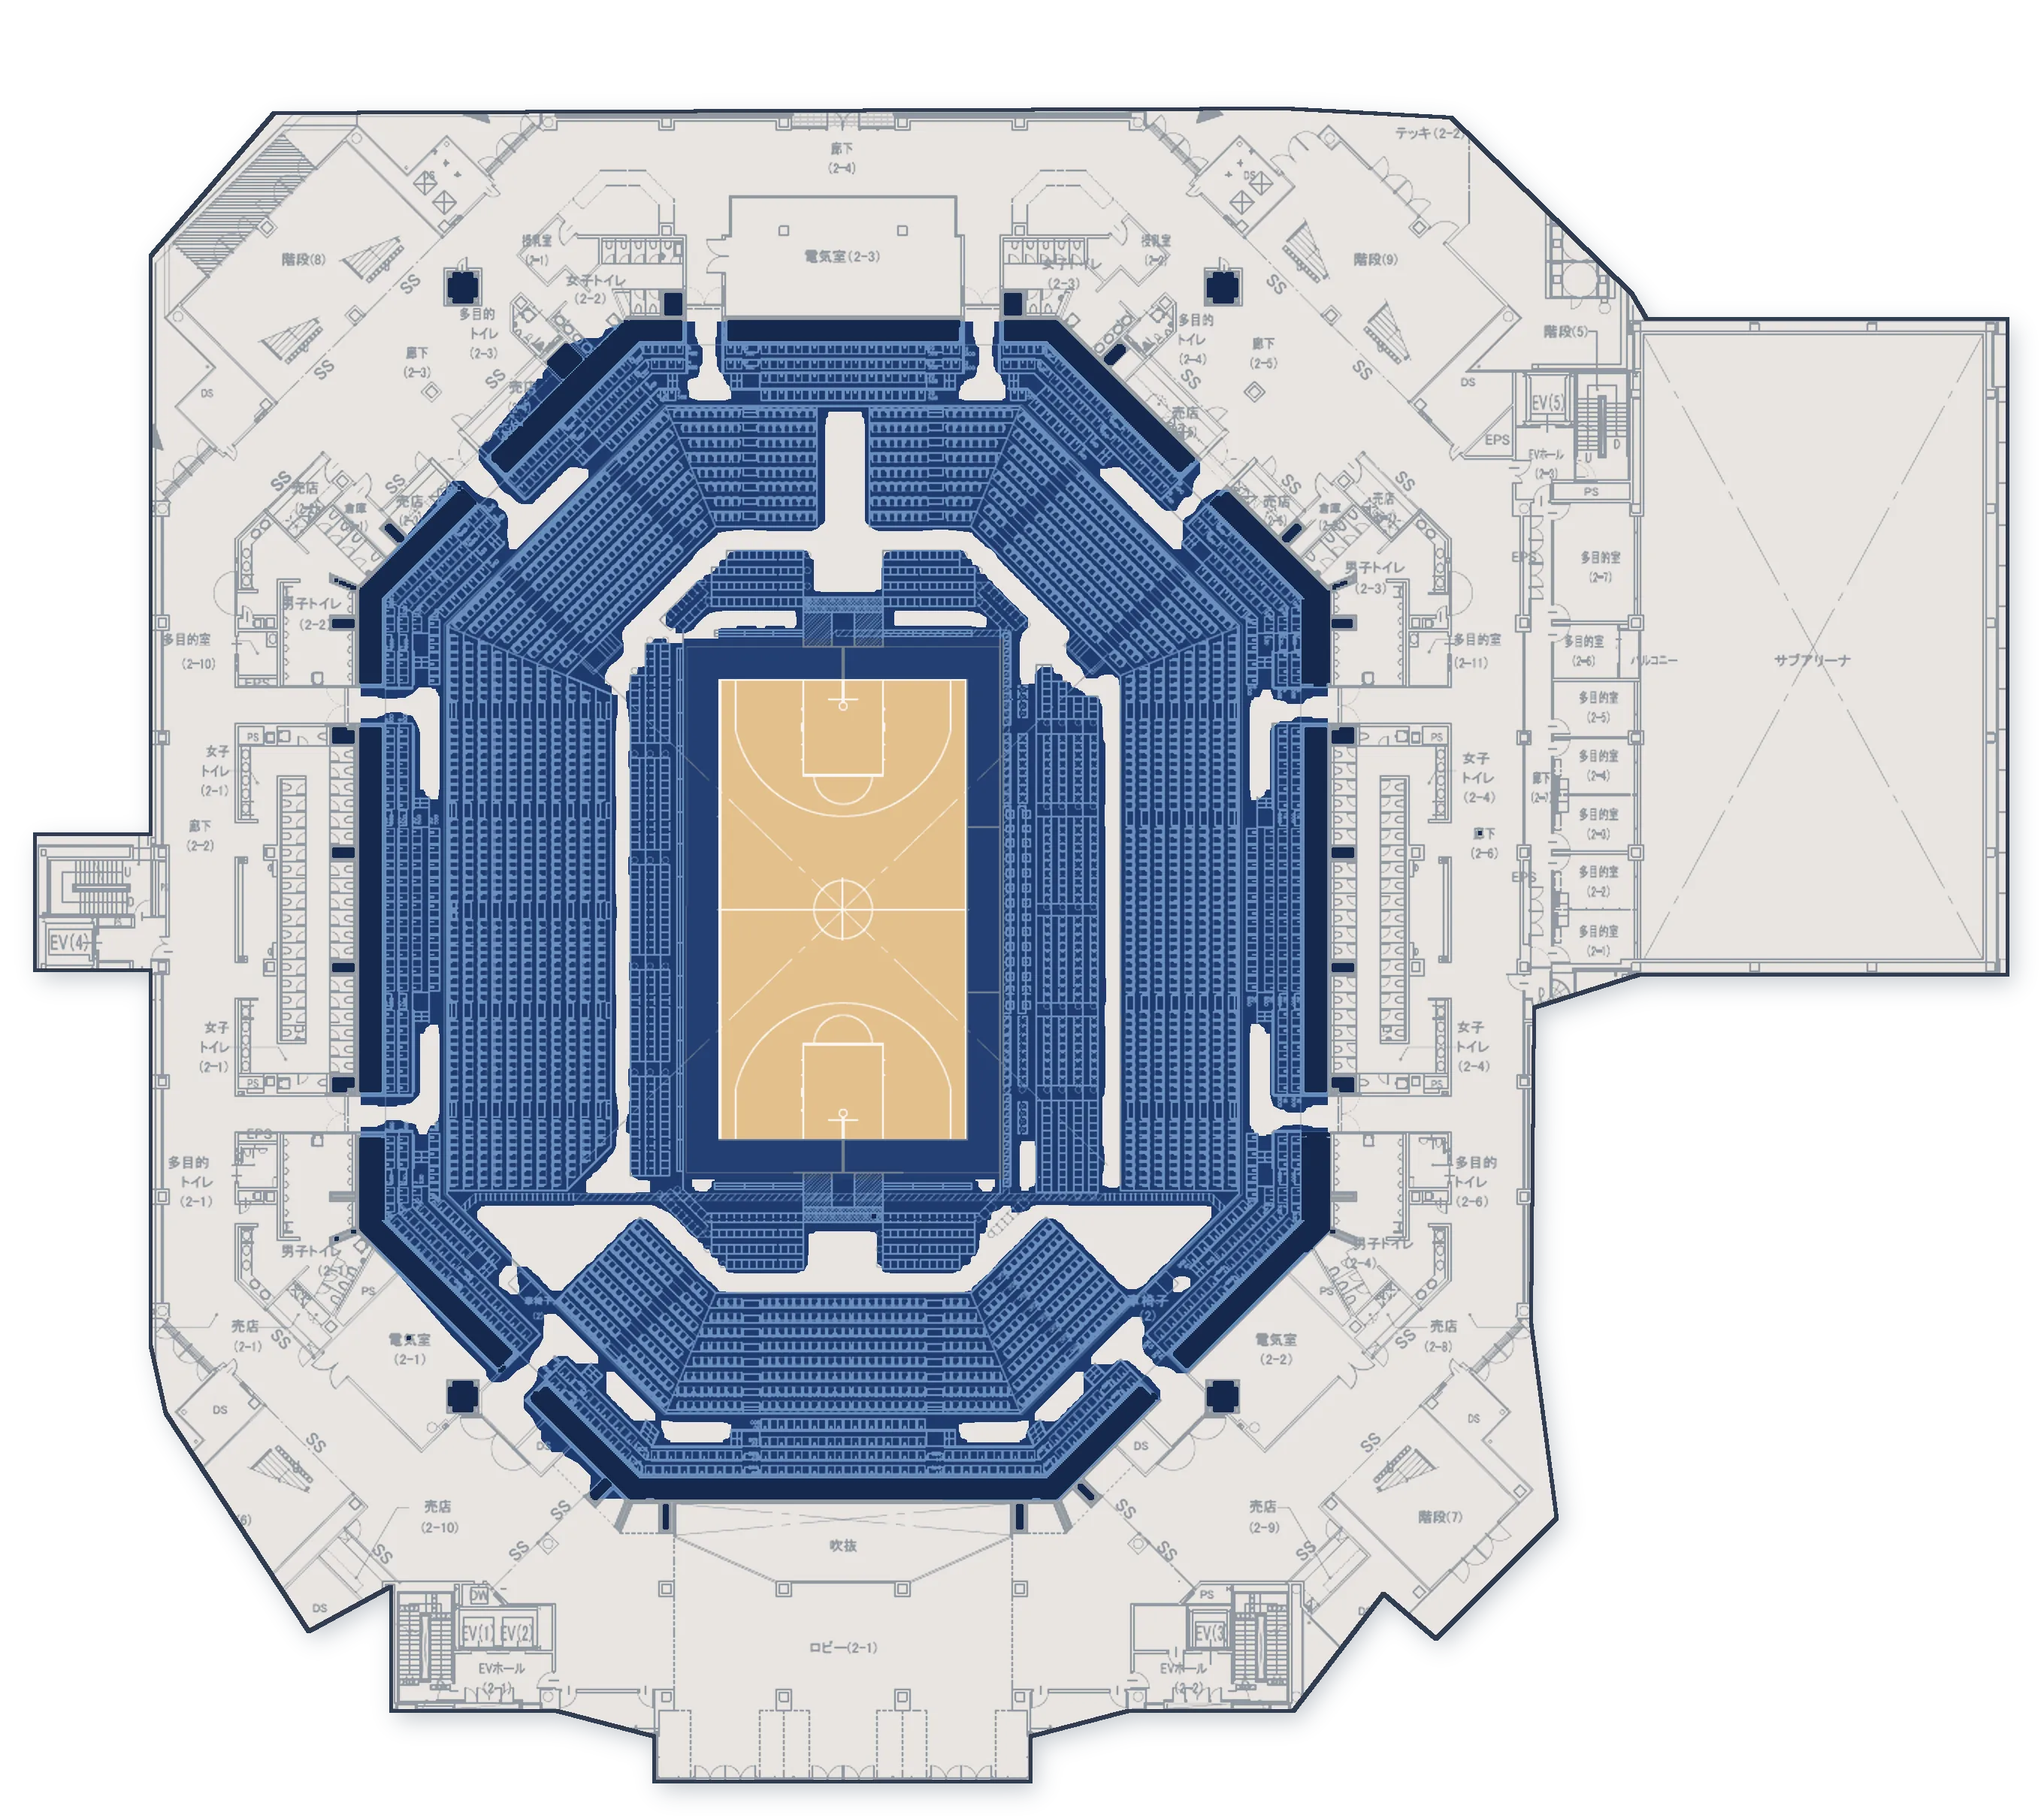
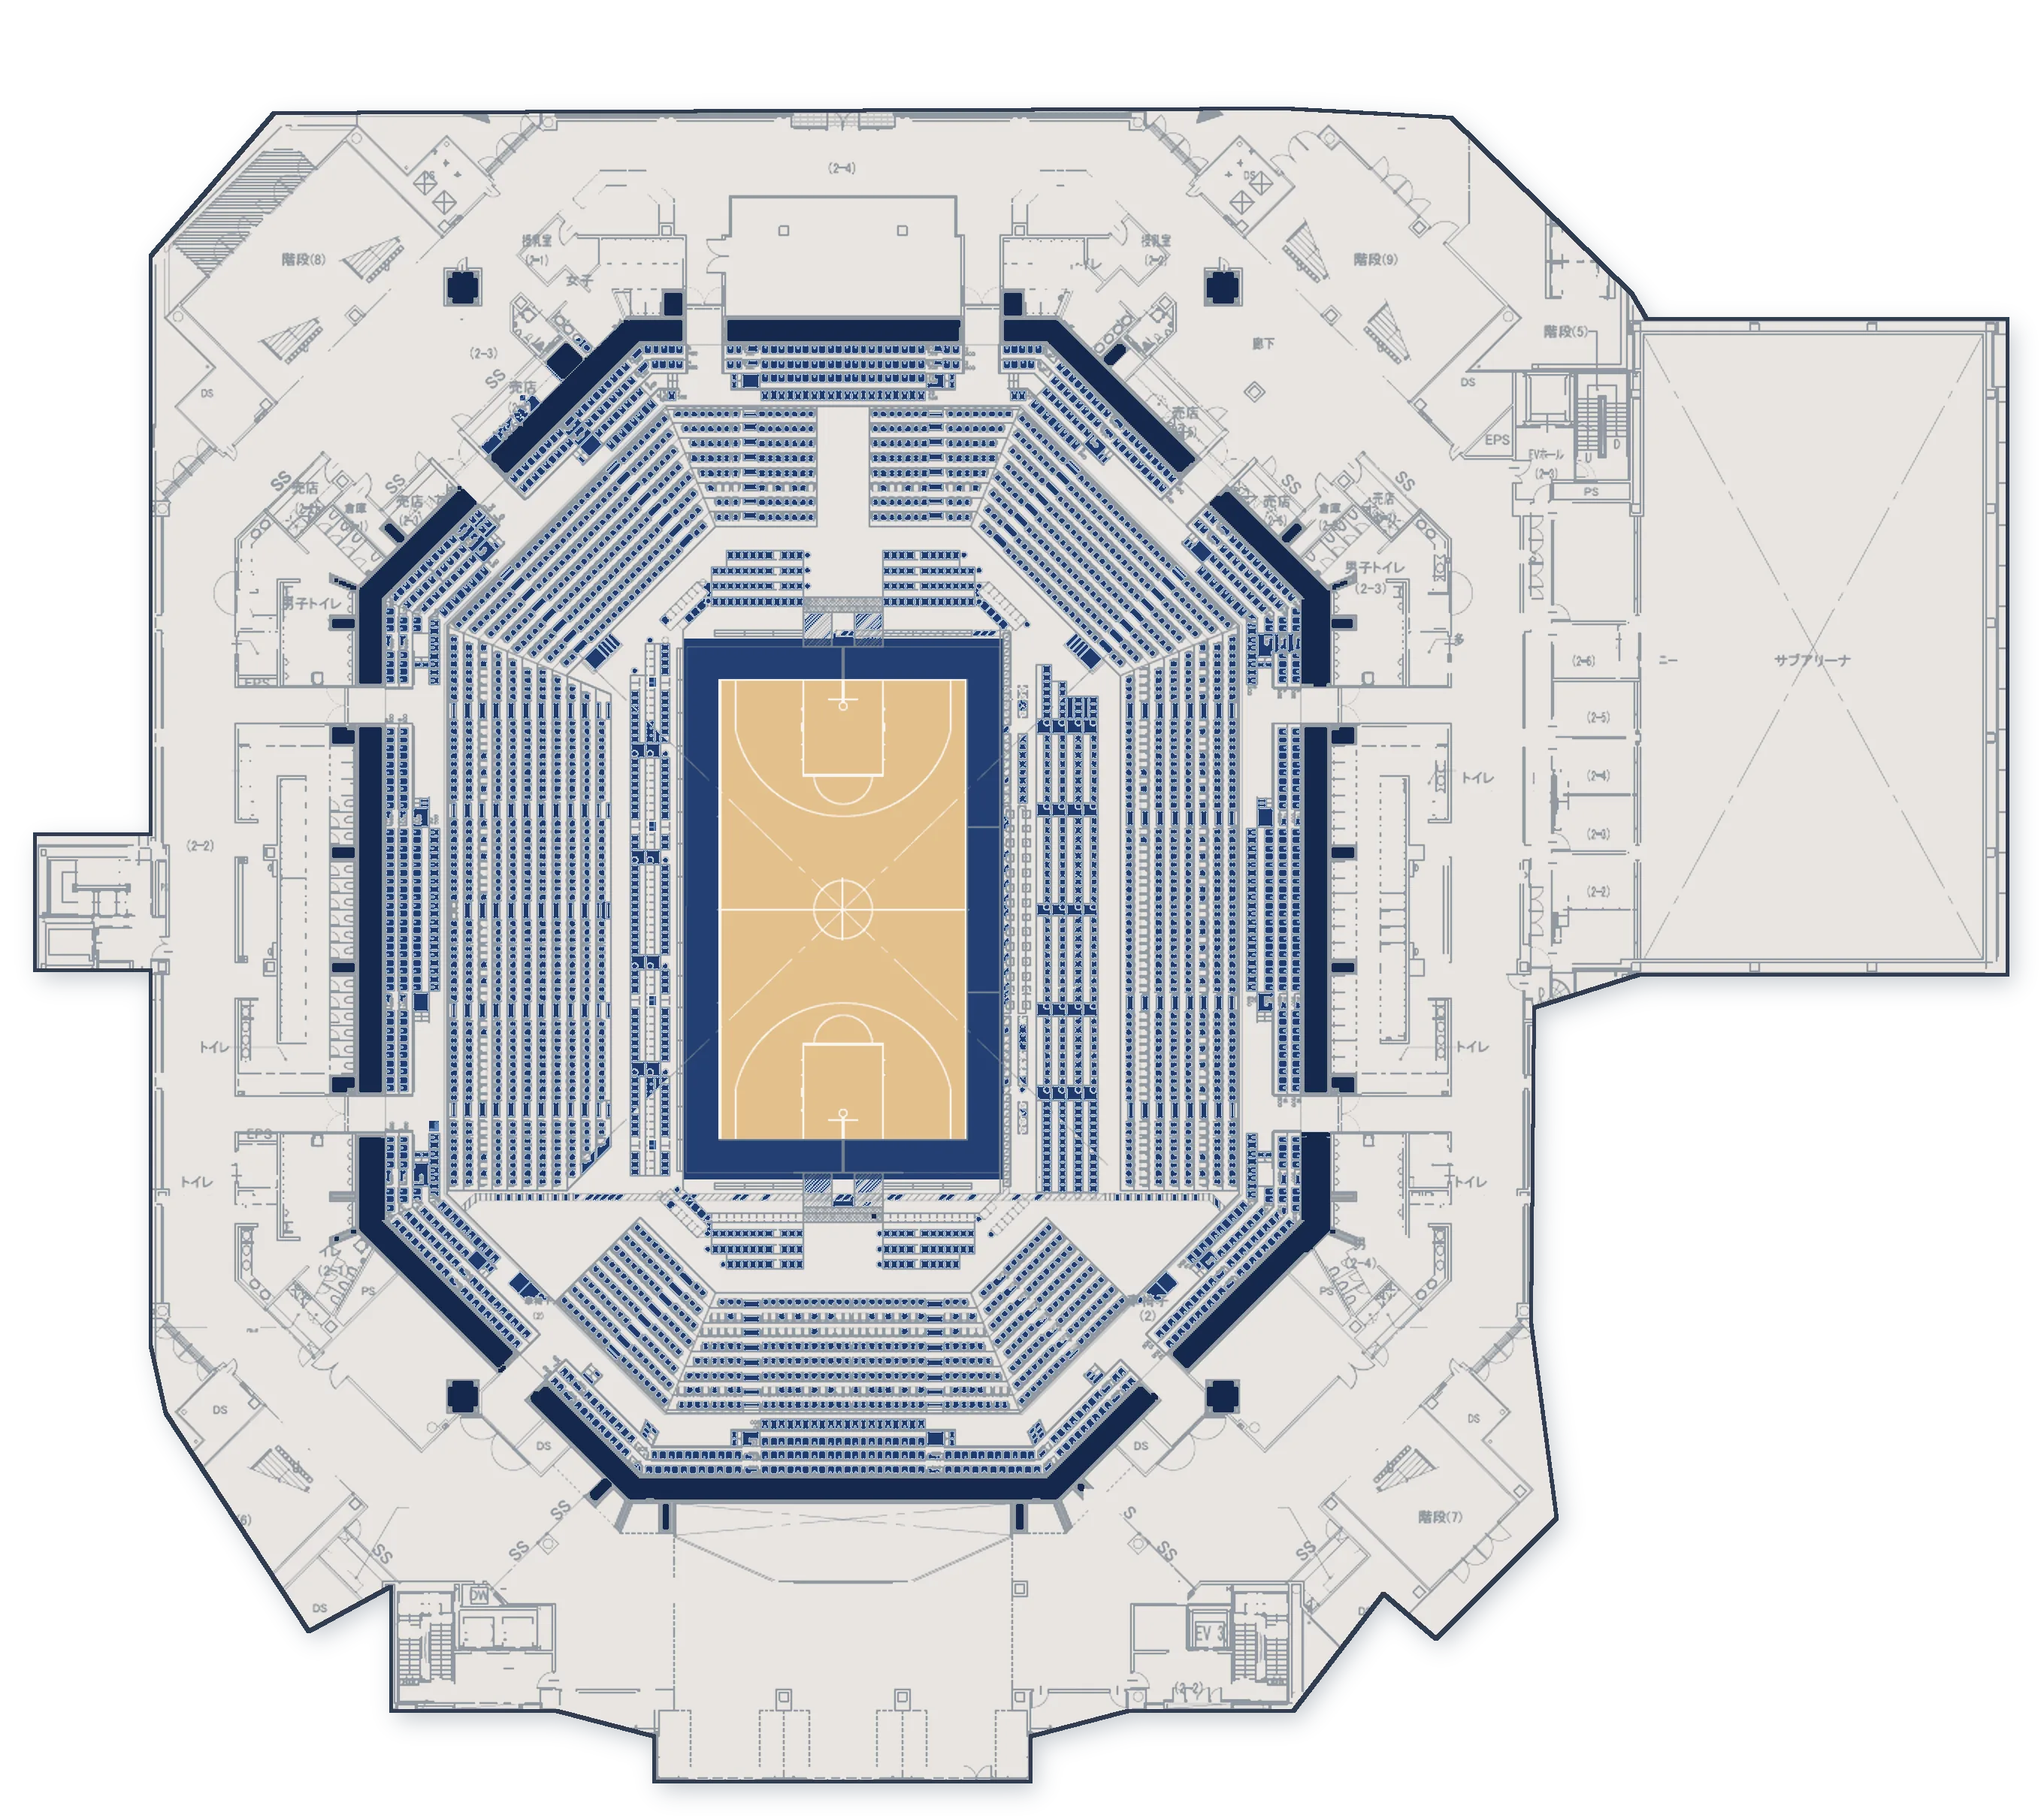
平面図の文字を整理し、座席を1席ずつ塗る
- 図面の書き込み（電気室・SS など）を自動で消す。トイレ・授乳室・階段の文字は残す
- 客席は、図面の座席の四角を1席ずつ紺で塗る（1階の折りたたみ席も四角ごと塗る）

Claude-Session: https://claude.ai/code/session_018s3JG8FqEc2GfY8gW3Wm1t

diff --git a/sw.js b/sw.js
@@ -3,7 +3,7 @@
  * 館内で電波が弱いときは保存したものを使う。
  * 電波があるときは常に最新を取りに行く（データを直したらすぐ反映されるように）。
  */
-var CACHE = "seat-guide-v7";
+var CACHE = "seat-guide-v8";
 var FILES = [
   "./",
   "index.html",

diff --git a/tools/floorplan/render.py b/tools/floorplan/render.py
@@ -5,7 +5,77 @@ S=2  # 出力の倍率
 def poly_mask(shape, pts):
     m=np.zeros(shape[:2],np.uint8); cv2.fillPoly(m,[np.array(pts,np.int32)],255); return m
 
-def render(n, out):
+def _g1():
+    """1Fの図面を、ほかの階と同じ枠で切り出した白黒画像"""
+    im=load(1); im=cv2.copyMakeBorder(im,75,0,0,0,cv2.BORDER_CONSTANT,value=(255,255,255))
+    x0,y0,w,h=FRAME
+    return cv2.cvtColor(im[y0:y0+h,x0:x0+w],cv2.COLOR_BGR2GRAY)
+
+def keep_boxes(g1):
+    """残す文字（トイレ・授乳室・階段）の場所。1Fの図面から切り出した文字の形で探す"""
+    T={'toi':(g1[506:520,336:358],0.78,(-40,-3,50,17)),
+       'kai':(g1[523:534,50:67],0.8,(-3,-3,40,14)),
+       'jun':(g1[1072:1083,767:792],0.8,(-3,-3,30,25))}
+    return T
+
+def find_keep(g, T):
+    boxes=[]
+    for t,thr,(a,b,c,d) in T.values():
+        res=cv2.matchTemplate(g,t,cv2.TM_CCOEFF_NORMED)
+        ys,xs=np.where(res>thr)
+        for x,y in zip(xs,ys): boxes.append((x+a,y+b,x+c,y+d))
+    return boxes
+
+def text_mask(g, bowl1, boxes):
+    """文字（電気室・SS などの書き込み）を見つける。客席の中と、残す文字の所は除く。
+    文字は「太さのある小さな形」が横に2つ以上並んだもの。細い線（壁や点線）は消さない"""
+    ink=(g<200).astype(np.uint8)
+    # 文字から伸びる引き出し線（長い縦線・横線）を外して、文字だけを切り離す
+    lines=cv2.morphologyEx(ink,cv2.MORPH_OPEN,np.ones((1,21),np.uint8))|cv2.morphologyEx(ink,cv2.MORPH_OPEN,np.ones((21,1),np.uint8))
+    rest=ink&(1-lines)
+    n,lab,st,_=cv2.connectedComponentsWithStats(rest,8)
+    ok=np.zeros(n,np.uint8)
+    for i in range(1,n):
+        x,y,w,h,a=st[i]
+        if 4<=h<=15 and w<=16 and min(w,h)>=3 and a>=5: ok[i]=1
+        elif 6<=h<=15 and 16<w<=80 and a/(w*h)>0.2: ok[i]=2    # くっついた文字列
+        elif 5<=h<=14 and w<=4: ok[i]=3                          # 「1」「(」「)」など細い文字
+    glyph=(ok[lab]>0).astype(np.uint8)
+    thick=((ok[lab]>0)&(ok[lab]!=3)).astype(np.uint8)
+    word=(ok[lab]==2)
+    near=cv2.dilate(glyph,np.ones((3,13),np.uint8))
+    n2,lab2,st2,_=cv2.connectedComponentsWithStats(near,8)
+    m=np.zeros_like(ink)
+    for i in range(1,n2):
+        x,y,w,h,a=st2[i]
+        sub=lab2[y:y+h,x:x+w]==i
+        k=len(set(np.unique(lab[y:y+h,x:x+w][sub&(thick[y:y+h,x:x+w]>0)])))
+        if k>=2 or word[y:y+h,x:x+w][sub].any():
+            m[y:y+h,x:x+w][sub]=1
+    m=m&glyph
+    m[bowl1>0]=0
+    for (x0,y0,x1,y1) in boxes: m[max(0,y0):y1,max(0,x0):x1]=0
+    return cv2.dilate(m,np.ones((3,3),np.uint8))
+
+def seat_cells(g, bowl):
+    """客席の図形のうち、線で囲まれた小さな四角（1席ぶん）を見つける"""
+    ink=(g<200).astype(np.uint8)
+    free=(1-ink)
+    n,lab,st,_=cv2.connectedComponentsWithStats(free,4)
+    hit=np.zeros(n,np.uint8)
+    for i in range(1,n):
+        x,y,w,h,a=st[i]
+        if 6*S*S<=a<=110*S*S and max(w,h)<=16*S and min(w,h)>=2*S: hit[i]=1
+    m=hit[lab]
+    # 1Fの折りたたみ椅子のように、小さな四角の中に×が描かれた席は、四角ごと塗る
+    n,lab,st,_=cv2.connectedComponentsWithStats(ink,8)
+    for i in range(1,n):
+        x,y,w,h,a=st[i]
+        if 3*S<=min(w,h) and max(w,h)<=7*S and a>=0.4*w*h: m[y:y+h,x:x+w]=1
+    m[bowl==0]=0
+    return m
+
+def render(n, out, T):
     im=load(n)
     if n<=2:  # 1F・2Fの図面は75ピクセル下にずらして、3F〜5Fと柱の位置をそろえる
         im=cv2.copyMakeBorder(im,75,0,0,0,cv2.BORDER_CONSTANT,value=(255,255,255))
@@ -15,6 +85,9 @@ def render(n, out):
     im=im[y0:y0+h, x0:x0+w]
     sh=lambda pts:[(x-x0,y-y0) for x,y in pts]
     g=cv2.cvtColor(im,cv2.COLOR_BGR2GRAY)
+    # 文字を消す（トイレ・授乳室・階段は残す）
+    bowl1=poly_mask(g.shape, sh(BOWL[n]))
+    g[text_mask(g, bowl1, find_keep(g, T))>0]=255
     # upscale
     g=cv2.resize(g,(w*S,h*S),interpolation=cv2.INTER_CUBIC)
     scale=lambda pts:[(x*S,y*S) for x,y in pts]
@@ -25,11 +98,8 @@ def render(n, out):
     # 濃いグレーの塗り（構造壁・柱）
     wall=((g>60)&(g<140)).astype(np.uint8)
     wall=cv2.morphologyEx(wall,cv2.MORPH_OPEN,np.ones((5,5),np.uint8))
-    # 客席：線が密集しているところ
-    dens=cv2.blur(line.astype(np.float32),(13*S,13*S))
-    seat=((dens>0.16)&(bowl>0)).astype(np.uint8)
-    seat=cv2.morphologyEx(seat,cv2.MORPH_CLOSE,np.ones((5*S,5*S),np.uint8))
-    seat=cv2.morphologyEx(seat,cv2.MORPH_OPEN,np.ones((7*S,7*S),np.uint8))
+    # 客席：1席ずつ、線で囲まれた四角を塗る
+    seat=seat_cells(g, bowl)
     cx0,cy0,cx1,cy1=[v*S for v in ((APRON[0]-x0),(APRON[1]-y0),(APRON[2]-x0),(APRON[3]-y0))]
     seat[cy0:cy1,cx0:cx1]=0
     for (ax,ay,bx,by) in NOSEAT[n]:
@@ -39,7 +109,7 @@ def render(n, out):
     def fill(mask,bgr):
         col[mask>0]=bgr
     col[:]=(225,229,233)          # 床（明るいグレー）BGR
-    fill(seat,(110,58,31))        # 客席：紺
+    fill(seat,(110,58,31))        # 客席：紺（1席ずつ）
     # コート
     a0,b0,a1,b1=cx0,cy0,cx1,cy1
     col[b0:b1,a0:a1]=(115,63,35)  # コートの周り：紺
@@ -49,7 +119,7 @@ def render(n, out):
     # 線を重ねる
     lc=np.zeros_like(col)
     lc[:]=(150,140,130)
-    lc[seat>0]=(205,160,120)                      # 客席の線は明るい青
+    lc[(bowl>0)&(cv2.dilate(seat,np.ones((3,3),np.uint8))>0)]=(205,160,120)  # 客席の線は明るい青
     lc[l0:l1,k0:k1]=(255,255,255)                 # コートの線は白
     a=ink[...,None]*0.85
     a[wall>0]=0
@@ -68,6 +138,7 @@ def render(n, out):
     cv2.imwrite(out, comp.astype(np.uint8))
 if __name__=='__main__':
     from PIL import Image
+    T=keep_boxes(_g1())
     for n in [1,2,4,5]:
-        render(n,'r%d.png'%n)
+        render(n,'r%d.png'%n,T)
         Image.open('r%d.png'%n).save('../../assets/floors/%df.webp'%n,'WEBP',quality=82,method=6)

diff --git a/tools/floorplan/polys.py b/tools/floorplan/polys.py
@@ -5,7 +5,7 @@ FOOT={
  4:[(430,350),(445,240),(580,108),(700,95),(760,40),(1020,40),(1095,100),(1200,95),(1340,232),(1310,265),(1420,265),(1420,355),(1342,355),(1342,900),(1352,1005),(1250,1120),(1200,1075),(1200,1155),(585,1155),(585,1080),(540,1130),(440,1020),(490,925),(430,890),(430,665),(353,665),(353,575),(430,575)],
 }
 BOWL={
- 1:[(750,375),(1070,375),(1070,865),(750,865)],
+ 1:[(800,375),(1020,375),(1070,460),(1070,820),(1020,865),(800,865),(750,820),(750,460)],
  2:[(1033,1017),(723,1016),(569,838),(569,412),(705,249),(745,233),(1033,233),(1212,412),(1212,840)],
  5:[(700,112),(1090,112),(1325,345),(1325,935),(1150,1062),(630,1062),(460,935),(460,345)],
  4:[(1304,876),(1140,1068),(650,1068),(477,876),(477,374),(628,223),(726,148),(1078,148),(1304,374)],
